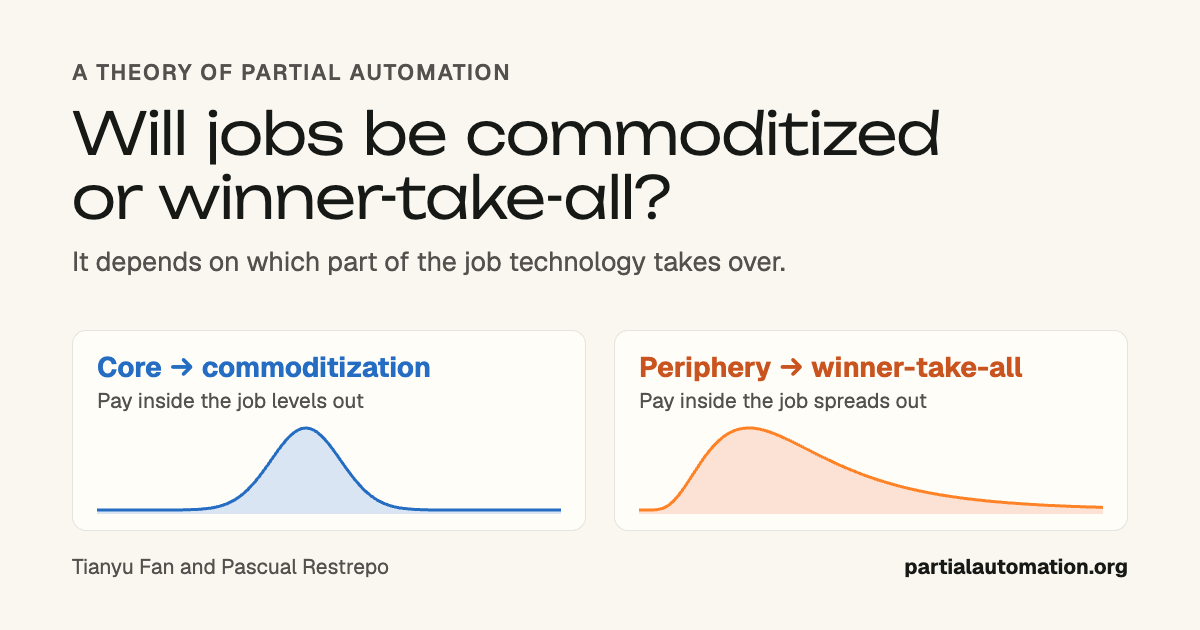
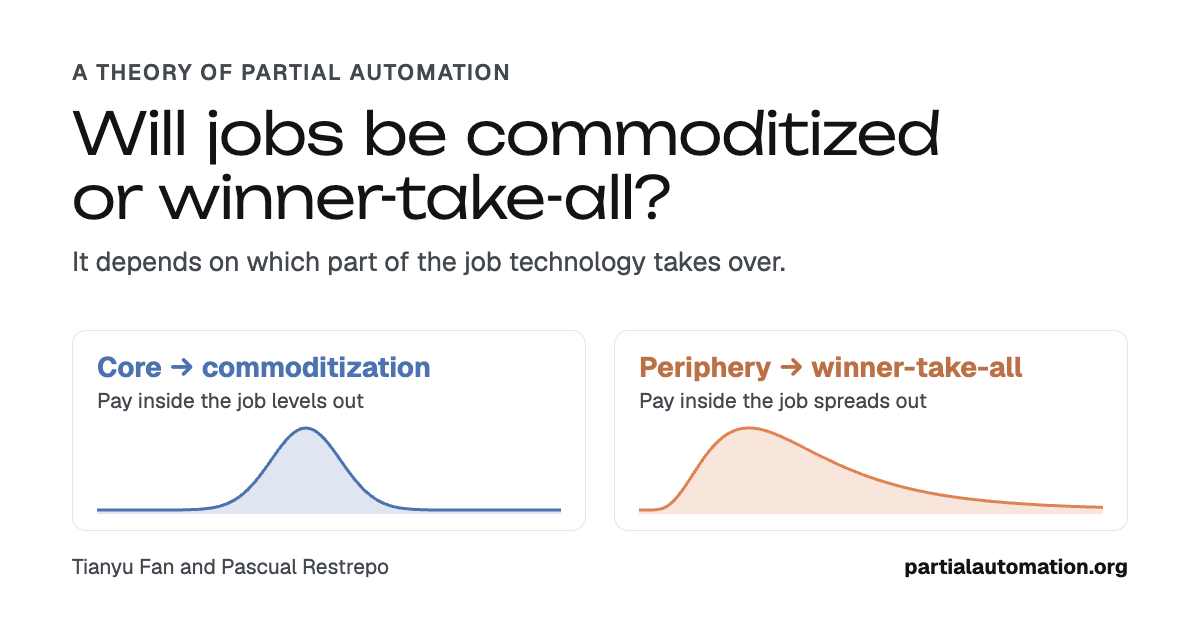
Placeholder page: white background and the paper's blue and orange

diff --git a/docs/index.html b/docs/index.html
@@ -22,11 +22,11 @@
     src: url("fonts/Geist-latin-variable.woff2") format("woff2"); }
   @font-face { font-family: "Unbounded"; font-style: normal; font-weight: 200 900; font-display: swap;
     src: url("fonts/Unbounded-latin-variable.woff2") format("woff2"); }
-  :root { --bg: #faf7f0; --ink: #171916; --ink-2: #474b49; --rule: #d9d5cb;
-    --core: #185ba3; --peri: #ff8326; --on-core: #fff; --on-peri: #171916; color-scheme: light; }
+  :root { --bg: #ffffff; --ink: #111315; --ink-2: #43484e; --rule: #e2e4e8;
+    --core: #43649b; --peri: #dd8452; --on-core: #fff; --on-peri: #111315; color-scheme: light; }
   @media (prefers-color-scheme: dark) {
     :root { --bg: #15191e; --ink: #f5f1e8; --ink-2: #d3d7d8; --rule: #414950;
-      --core: #94c8ff; --peri: #ffa04e; --on-core: #15191e; --on-peri: #15191e; color-scheme: dark; }
+      --core: #aec0db; --peri: #e19367; --on-core: #15191e; --on-peri: #15191e; color-scheme: dark; }
   }
   * { box-sizing: border-box; }
   body { margin: 0; min-height: 100vh; display: flex; align-items: center; background: var(--bg); color: var(--ink);
